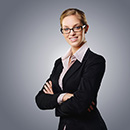
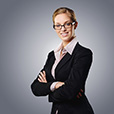
form, footer

diff --git a/css/main.min.css b/css/main.min.css
@@ -1,1 +1,1 @@
-.header{background:url(../img/header-bg.png) no-repeat 50% 50%;background-size:cover;position:relative}.header__overlay{position:absolute;top:0;left:0;right:0;bottom:0;background:url(../img/header-bg-overlay.png) no-repeat 50% 50%;background-size:cover;width:100%;height:100%}.header__inner{position:relative;width:1200px;margin:0 auto}.header__info{display:-webkit-box;display:-ms-flexbox;display:flex;-webkit-box-orient:horizontal;-webkit-box-direction:normal;-ms-flex-direction:row;flex-direction:row;-webkit-box-align:center;-ms-flex-align:center;align-items:center}.header__info .logo_main{margin:2rem 0;-ms-flex-preferred-size:10%;flex-basis:10%}.header__info .nav{display:-webkit-box;display:-ms-flexbox;display:flex;-webkit-box-orient:horizontal;-webkit-box-direction:normal;-ms-flex-direction:row;flex-direction:row;-ms-flex-preferred-size:60%;flex-basis:60%;-webkit-box-pack:space-evenly;-ms-flex-pack:space-evenly;justify-content:space-evenly}.header__info .nav__list{width:100%;margin:0;padding:0;list-style:none;display:-webkit-box;display:-ms-flexbox;display:flex;-webkit-box-orient:horizontal;-webkit-box-direction:normal;-ms-flex-direction:row;flex-direction:row;-webkit-box-pack:space-evenly;-ms-flex-pack:space-evenly;justify-content:space-evenly;font-size:1.5rem;color:var(--color-white)}.header__info .nav__list>:hover{color:var(--color-main);-webkit-transition:all .5s;transition:all .5s;cursor:pointer}.header__info .nav__list>:not(:nth-child(6)){border-right:1px solid var(--color-brown);padding-right:2rem}.header__info .phone{-ms-flex-preferred-size:15%;flex-basis:15%}.header__info .phone__text{color:var(--color-white);font-size:1.4rem;text-align:end}.header__info .phone__number{color:var(--color-white);font-size:1.9rem;text-align:end}.header__info .button{-ms-flex-preferred-size:15%;flex-basis:15%}.header__info .button_main{color:var(--color-white);font-size:1.3rem;padding:1.8rem 2.3rem;background-color:var(--color-main);outline:0;border-radius:30px;text-transform:uppercase}.header__info .button_main-top{padding:1.8rem 2.3rem;border:none;cursor:pointer}.header__titles{color:var(--color-white);display:-webkit-box;display:-ms-flexbox;display:flex;-webkit-box-orient:vertical;-webkit-box-direction:normal;-ms-flex-direction:column;flex-direction:column;-webkit-box-pack:center;-ms-flex-pack:center;justify-content:center;-webkit-box-align:center;-ms-flex-align:center;align-items:center}.header__titles_top{font-size:2.4rem;margin-bottom:2rem}.header__titles_central{font-size:7.2rem;color:var(--color-main);font-weight:700;text-transform:uppercase}.header__titles_bottom{font-size:4.2rem;text-transform:uppercase}.header__decorate{display:-webkit-box;display:-ms-flexbox;display:flex;-webkit-box-align:center;-ms-flex-align:center;align-items:center;-webkit-box-pack:center;-ms-flex-pack:center;justify-content:center;margin:4.2rem 0}.header__decorate .decorate_left{-ms-flex-preferred-size:37%;flex-basis:37%;height:2px;color:var(--color-white);margin:0;padding:0}.header__decorate .decorate_right{-ms-flex-preferred-size:37%;flex-basis:37%;height:2px;color:var(--color-white);margin:0;padding:0}.header__decorate .decorate_circle{-ms-flex-preferred-size:1%;flex-basis:1%;height:12px;background-color:var(--color-white);margin:0;padding:0;border-radius:50%;margin:0 2rem}.header__variants{display:-webkit-box;display:-ms-flexbox;display:flex;-webkit-box-orient:horizontal;-webkit-box-direction:normal;-ms-flex-direction:row;flex-direction:row;-webkit-box-pack:justify;-ms-flex-pack:justify;justify-content:space-between;-ms-flex-preferred-size:25%;flex-basis:25%;-webkit-box-align:baseline;-ms-flex-align:baseline;align-items:baseline}.header__variants .variants__items{display:-webkit-box;display:-ms-flexbox;display:flex;-webkit-box-orient:vertical;-webkit-box-direction:normal;-ms-flex-direction:column;flex-direction:column;-webkit-box-pack:center;-ms-flex-pack:center;justify-content:center;-webkit-box-align:center;-ms-flex-align:center;align-items:center}.header__variants .variants__items .variants__text{font-size:1.6rem;color:var(--color-white);text-align:center;padding:1.5rem 1rem;margin:0}.header__variants .variants__items>*+*{margin:1.5rem 0}.header__button{width:100%;display:-webkit-box;display:-ms-flexbox;display:flex;-webkit-box-orient:horizontal;-webkit-box-direction:normal;-ms-flex-direction:row;flex-direction:row;-webkit-box-pack:center;-ms-flex-pack:center;justify-content:center}.header__button .button_main-bottom{margin:4.2rem 0 6rem 0;color:var(--color-white);font-size:1.3rem;padding:2.3rem 4.8rem;background-color:var(--color-main);outline:0;border-radius:30px;text-transform:uppercase;font-weight:700;border:none;cursor:pointer}.advantages{background:var(--color-bg-grey)}.advantages__inner{position:relative;width:1200px;margin:0 auto}.advantages__inner .advantages__title{width:100%;text-align:center;font-size:2.6rem;padding:3rem 0;text-transform:uppercase;font-weight:700}.advantages__inner .advantages__items{display:-webkit-box;display:-ms-flexbox;display:flex;-webkit-box-orient:horizontal;-webkit-box-direction:normal;-ms-flex-direction:row;flex-direction:row;-webkit-box-pack:justify;-ms-flex-pack:justify;justify-content:space-between}.advantages__inner .advantages__items_left-group,.advantages__inner .advantages__items_right-group{display:-webkit-box;display:-ms-flexbox;display:flex;-webkit-box-orient:vertical;-webkit-box-direction:normal;-ms-flex-direction:column;flex-direction:column;-webkit-box-pack:center;-ms-flex-pack:center;justify-content:center;-webkit-box-align:center;-ms-flex-align:center;align-items:center;width:50%;-webkit-box-pack:start;-ms-flex-pack:start;justify-content:flex-start;margin-top:2rem;margin-bottom:6rem}.advantages__inner .advantages__items_left-group .advantages__items_left,.advantages__inner .advantages__items_left-group .advantages__items_right,.advantages__inner .advantages__items_right-group .advantages__items_left,.advantages__inner .advantages__items_right-group .advantages__items_right{display:-webkit-box;display:-ms-flexbox;display:flex;-webkit-box-orient:horizontal;-webkit-box-direction:normal;-ms-flex-direction:row;flex-direction:row;-webkit-box-pack:justify;-ms-flex-pack:justify;justify-content:space-between;-ms-flex-pack:distribute;justify-content:space-around}.advantages__inner .advantages__items_left-group .advantages__items_left .advantages__item-logo,.advantages__inner .advantages__items_left-group .advantages__items_right .advantages__item-logo,.advantages__inner .advantages__items_right-group .advantages__items_left .advantages__item-logo,.advantages__inner .advantages__items_right-group .advantages__items_right .advantages__item-logo{padding-top:1rem}.advantages__inner .advantages__items_left-group .advantages__items_left .advantages__info,.advantages__inner .advantages__items_left-group .advantages__items_right .advantages__info,.advantages__inner .advantages__items_right-group .advantages__items_left .advantages__info,.advantages__inner .advantages__items_right-group .advantages__items_right .advantages__info{margin-bottom:3rem;margin-left:1.5rem}.advantages__inner .advantages__items_left-group .advantages__items_left .advantages__info .advantages__item-title,.advantages__inner .advantages__items_left-group .advantages__items_right .advantages__info .advantages__item-title,.advantages__inner .advantages__items_right-group .advantages__items_left .advantages__info .advantages__item-title,.advantages__inner .advantages__items_right-group .advantages__items_right .advantages__info .advantages__item-title{color:var(--color-main);font-size:1.6rem;margin-bottom:1rem;font-weight:700}.advantages__inner .advantages__items_left-group .advantages__items_left .advantages__info .advantages__item-text,.advantages__inner .advantages__items_left-group .advantages__items_right .advantages__info .advantages__item-text,.advantages__inner .advantages__items_right-group .advantages__items_left .advantages__info .advantages__item-text,.advantages__inner .advantages__items_right-group .advantages__items_right .advantages__info .advantages__item-text{font-size:1.6rem}.agent{background:url(../img/agent-bg.png) no-repeat 50% 50%;background-size:cover;color:var(--color-white)}.agent__inner{width:1200px;margin:0 auto}.agent__info{display:-webkit-box;display:-ms-flexbox;display:flex;-webkit-box-orient:vertical;-webkit-box-direction:normal;-ms-flex-direction:column;flex-direction:column;-webkit-box-pack:center;-ms-flex-pack:center;justify-content:center;-webkit-box-align:center;-ms-flex-align:center;align-items:center;color:var(--color-white);padding-bottom:8rem}.agent__logo{width:10rem;height:10rem;border:1px solid var(--color-white);border-radius:50%;margin-top:6rem}.agent__logo img{display:inline-block;line-height:50%;margin-left:25%;margin-top:20%}.agent__title{font-size:2.6rem;font-weight:700;margin:1.5rem 0 1.5rem 0}.agent__text{font-size:1.9rem;line-height:2.7rem;width:90%;text-align:center}.client{background-color:var(--color-white)}.client__inner{position:relative;width:1200px;margin:0 auto}.client__title{padding:3rem 1rem 2rem 1rem;font-size:2.6rem;text-transform:uppercase;text-align:center;font-weight:700}.client__subtitle{padding:1rem 1rem 1rem 1rem;font-size:2.6rem;text-align:center}.client__slider{display:-webkit-box;display:-ms-flexbox;display:flex;-webkit-box-orient:horizontal;-webkit-box-direction:normal;-ms-flex-direction:row;flex-direction:row;-webkit-box-pack:justify;-ms-flex-pack:justify;justify-content:space-between}.footer{background:var(--color-bg-title);color:var(--color-white)}.footer__inner{position:relative;width:1200px;margin:0 auto}.question-form{background:url(../../img/form-bg.png);position:relative}.question-form__overlay{position:absolute;top:0;left:0;right:0;bottom:0;background:url(../img/header-bg-overlay.png) no-repeat 50% 50%;background-size:cover;width:100%;height:100%}.question-form__inner{position:relative;width:1200px;margin:0 auto}.manage{background:url(../img/manage-bg.png) no-repeat 50% 50%;background-size:cover;color:var(--color-white)}.manage__inner{width:1200px;margin:0 auto}.manage__info{display:-webkit-box;display:-ms-flexbox;display:flex;-webkit-box-orient:vertical;-webkit-box-direction:normal;-ms-flex-direction:column;flex-direction:column;-webkit-box-pack:center;-ms-flex-pack:center;justify-content:center;-webkit-box-align:center;-ms-flex-align:center;align-items:center;color:var(--color-white);padding-bottom:8rem}.manage__logo{width:10rem;height:10rem;border:1px solid var(--color-white);border-radius:50%;margin-top:6rem}.manage__logo img{display:inline-block;line-height:50%;margin-left:25%;margin-top:20%}.manage__title{font-size:2.6rem;font-weight:700;margin:1.5rem 0 1.5rem 0}.manage__text{font-size:1.9rem;line-height:2.7rem;width:90%;text-align:center}.price{background-color:var(--color-white)}.price__inner{position:relative;width:1200px;margin:0 auto}.price__title{padding:3rem 1rem 2rem 1rem;font-size:2.6rem;text-transform:uppercase;text-align:center;font-weight:700}.price__subtitle{padding:1rem 1rem 1rem 1rem;font-size:2.6rem;text-align:center}.price .choice__inner{display:-webkit-box;display:-ms-flexbox;display:flex;-webkit-box-orient:horizontal;-webkit-box-direction:normal;-ms-flex-direction:row;flex-direction:row;-webkit-box-pack:justify;-ms-flex-pack:justify;justify-content:space-between}.price .choice__items{display:-webkit-box;display:-ms-flexbox;display:flex;-webkit-box-orient:vertical;-webkit-box-direction:normal;-ms-flex-direction:column;flex-direction:column;-webkit-box-pack:center;-ms-flex-pack:center;justify-content:center;-webkit-box-align:center;-ms-flex-align:center;align-items:center;border:1px solid var(--color-brown);-webkit-box-pack:justify;-ms-flex-pack:justify;justify-content:space-between}.price .choice__items>*+*{margin-bottom:1.5rem}.price .choice__items:not(:nth-child(4)){margin-right:2rem}.price .choice__title{font-size:1.6rem;text-transform:uppercase;background-color:var(--color-bg-title);width:99.5%;height:6.2rem;color:var(--color-white);padding:2.2rem 5.6rem;text-align:center}.price .choice__days{font-size:1.6rem}.price .choice__price{font-size:2rem;color:var(--color-main)}.price .choice__text{font-size:1.4rem;text-align:center;font-weight:300}.price .choice__button{font-size:1.3rem;padding:1.8rem 2.3rem;background-color:var(--color-main);outline:0;border-radius:30px;text-transform:uppercase;border:none;cursor:pointer}.price .choice__button_bottom{background-color:var(--color-main);border:none;color:var(--color-white)}.price__form-inner{display:-webkit-box;display:-ms-flexbox;display:flex;-webkit-box-orient:vertical;-webkit-box-direction:normal;-ms-flex-direction:column;flex-direction:column;-webkit-box-pack:center;-ms-flex-pack:center;justify-content:center;-webkit-box-align:center;-ms-flex-align:center;align-items:center}.scheme{background-color:var(--color-bg-grey)}.scheme__inner{position:relative;width:1200px;margin:0 auto;display:-webkit-box;display:-ms-flexbox;display:flex;-webkit-box-orient:vertical;-webkit-box-direction:normal;-ms-flex-direction:column;flex-direction:column;-webkit-box-pack:center;-ms-flex-pack:center;justify-content:center;-webkit-box-align:center;-ms-flex-align:center;align-items:center}.scheme__title{padding:3rem 1rem 2rem 1rem;font-size:2.6rem;text-transform:uppercase;text-align:center;font-weight:700}.scheme__items{display:-webkit-box;display:-ms-flexbox;display:flex;-webkit-box-orient:horizontal;-webkit-box-direction:normal;-ms-flex-direction:row;flex-direction:row;-webkit-box-pack:justify;-ms-flex-pack:justify;justify-content:space-between;padding-bottom:3rem}.scheme__items_bottom{width:70%}.scheme__items_bottom .scheme__item{-ms-flex-preferred-size:33.33333%;flex-basis:33.33333%}.scheme__items_top .scheme__item{-ms-flex-preferred-size:25%;flex-basis:25%}.scheme__item{display:-webkit-box;display:-ms-flexbox;display:flex;-webkit-box-orient:vertical;-webkit-box-direction:normal;-ms-flex-direction:column;flex-direction:column;-webkit-box-pack:center;-ms-flex-pack:center;justify-content:center;-webkit-box-align:center;-ms-flex-align:center;align-items:center;font-size:1.4rem;padding:0 2rem;-webkit-box-pack:stretch;-ms-flex-pack:stretch;justify-content:stretch}.scheme__item-title{color:var(--color-main)}.scheme__item-text{font-weight:300;text-align:center}.scheme__item>*+*{margin-bottom:1.5rem}.work{background-color:var(--color-white)}.work__inner{position:relative;width:1200px;margin:0 auto}.work__title{padding:3rem 1rem 2rem 1rem;font-size:2.6rem;text-transform:uppercase;text-align:center;font-weight:700}.work__subtitle{padding:1rem 1rem 1rem 1rem;font-size:2.6rem;text-align:center}.work__examples{display:-webkit-box;display:-ms-flexbox;display:flex;-webkit-box-orient:horizontal;-webkit-box-direction:normal;-ms-flex-direction:row;flex-direction:row;-webkit-box-pack:justify;-ms-flex-pack:justify;justify-content:space-between}.work__examples .examples__inner{display:-webkit-box;display:-ms-flexbox;display:flex;-webkit-box-orient:vertical;-webkit-box-direction:normal;-ms-flex-direction:column;flex-direction:column;-webkit-box-pack:center;-ms-flex-pack:center;justify-content:center;-webkit-box-align:center;-ms-flex-align:center;align-items:center;padding:3rem 0 5rem 0;width:36rem}.work__examples .examples__inner>:nth-child(2){color:var(--color-main);font-size:1.8rem;margin-top:2rem;font-weight:700}.work__examples .examples__inner-item{margin:.5rem 0;font-size:1.6rem;text-align:justify;font-weight:300;line-height:2.2rem}:root{--color-brown:#333;--color-white:#fff;--color-main:rgb(236, 100, 75);--color-bg-title:rgb(37,51,60);--color-bg-grey:rgb(243, 243, 243)}html{-webkit-box-sizing:border-box;box-sizing:border-box;font-size:62.5%}*,::after,::before{-webkit-box-sizing:inherit;box-sizing:inherit}body{margin:0;page-break-after:0;font-family:Roboto,sans-serif}
+.header{background:url(../img/header-bg.png) no-repeat 50% 50%;background-size:cover;position:relative}.header__overlay{position:absolute;top:0;left:0;right:0;bottom:0;background:url(../img/header-bg-overlay.png) no-repeat 50% 50%;background-size:cover;width:100%;height:100%}.header__inner{position:relative;width:1200px;margin:0 auto}.header__info{display:-webkit-box;display:-ms-flexbox;display:flex;-webkit-box-orient:horizontal;-webkit-box-direction:normal;-ms-flex-direction:row;flex-direction:row;-webkit-box-align:center;-ms-flex-align:center;align-items:center}.header__info .logo_main{margin:2rem 0;-ms-flex-preferred-size:10%;flex-basis:10%}.header__info .nav{display:-webkit-box;display:-ms-flexbox;display:flex;-webkit-box-orient:horizontal;-webkit-box-direction:normal;-ms-flex-direction:row;flex-direction:row;-ms-flex-preferred-size:60%;flex-basis:60%;-webkit-box-pack:space-evenly;-ms-flex-pack:space-evenly;justify-content:space-evenly}.header__info .nav__list{width:100%;margin:0;padding:0;list-style:none;display:-webkit-box;display:-ms-flexbox;display:flex;-webkit-box-orient:horizontal;-webkit-box-direction:normal;-ms-flex-direction:row;flex-direction:row;-webkit-box-pack:space-evenly;-ms-flex-pack:space-evenly;justify-content:space-evenly;font-size:1.5rem;color:var(--color-white)}.header__info .nav__list>:hover{color:var(--color-main);-webkit-transition:all .5s;transition:all .5s;cursor:pointer}.header__info .nav__list>:not(:nth-child(6)){border-right:1px solid var(--color-brown);padding-right:2rem}.header__info .phone{-ms-flex-preferred-size:15%;flex-basis:15%}.header__info .phone__text{color:var(--color-white);font-size:1.4rem;text-align:end}.header__info .phone__number{color:var(--color-white);font-size:1.9rem;text-align:end}.header__info .button{-ms-flex-preferred-size:15%;flex-basis:15%}.header__info .button_main{color:var(--color-white);font-size:1.3rem;padding:1.8rem 2.3rem;background-color:var(--color-main);outline:0;border-radius:30px;text-transform:uppercase}.header__info .button_main-top{padding:1.8rem 2.3rem;border:none;cursor:pointer}.header__titles{color:var(--color-white);display:-webkit-box;display:-ms-flexbox;display:flex;-webkit-box-orient:vertical;-webkit-box-direction:normal;-ms-flex-direction:column;flex-direction:column;-webkit-box-pack:center;-ms-flex-pack:center;justify-content:center;-webkit-box-align:center;-ms-flex-align:center;align-items:center}.header__titles_top{font-size:2.4rem;margin-bottom:2rem}.header__titles_central{font-size:7.2rem;color:var(--color-main);font-weight:700;text-transform:uppercase}.header__titles_bottom{font-size:4.2rem;text-transform:uppercase}.header__decorate{display:-webkit-box;display:-ms-flexbox;display:flex;-webkit-box-align:center;-ms-flex-align:center;align-items:center;-webkit-box-pack:center;-ms-flex-pack:center;justify-content:center;margin:4.2rem 0}.header__decorate .decorate_left{-ms-flex-preferred-size:37%;flex-basis:37%;height:2px;color:var(--color-white);margin:0;padding:0}.header__decorate .decorate_right{-ms-flex-preferred-size:37%;flex-basis:37%;height:2px;color:var(--color-white);margin:0;padding:0}.header__decorate .decorate_circle{-ms-flex-preferred-size:1%;flex-basis:1%;height:12px;background-color:var(--color-white);margin:0;padding:0;border-radius:50%;margin:0 2rem}.header__variants{display:-webkit-box;display:-ms-flexbox;display:flex;-webkit-box-orient:horizontal;-webkit-box-direction:normal;-ms-flex-direction:row;flex-direction:row;-webkit-box-pack:justify;-ms-flex-pack:justify;justify-content:space-between;-ms-flex-preferred-size:25%;flex-basis:25%;-webkit-box-align:baseline;-ms-flex-align:baseline;align-items:baseline}.header__variants .variants__items{display:-webkit-box;display:-ms-flexbox;display:flex;-webkit-box-orient:vertical;-webkit-box-direction:normal;-ms-flex-direction:column;flex-direction:column;-webkit-box-pack:center;-ms-flex-pack:center;justify-content:center;-webkit-box-align:center;-ms-flex-align:center;align-items:center}.header__variants .variants__items .variants__text{font-size:1.6rem;color:var(--color-white);text-align:center;padding:1.5rem 1rem;margin:0}.header__variants .variants__items>*+*{margin:1.5rem 0}.header__button{width:100%;display:-webkit-box;display:-ms-flexbox;display:flex;-webkit-box-orient:horizontal;-webkit-box-direction:normal;-ms-flex-direction:row;flex-direction:row;-webkit-box-pack:center;-ms-flex-pack:center;justify-content:center}.header__button .button_main-bottom{margin:4.2rem 0 6rem 0;color:var(--color-white);font-size:1.3rem;padding:2.3rem 4.8rem;background-color:var(--color-main);outline:0;border-radius:30px;text-transform:uppercase;font-weight:700;border:none;cursor:pointer}.advantages{background:var(--color-bg-grey)}.advantages__inner{position:relative;width:1200px;margin:0 auto}.advantages__inner .advantages__title{width:100%;text-align:center;font-size:2.6rem;padding:3rem 0;text-transform:uppercase;font-weight:700}.advantages__inner .advantages__items{display:-webkit-box;display:-ms-flexbox;display:flex;-webkit-box-orient:horizontal;-webkit-box-direction:normal;-ms-flex-direction:row;flex-direction:row;-webkit-box-pack:justify;-ms-flex-pack:justify;justify-content:space-between}.advantages__inner .advantages__items_left-group,.advantages__inner .advantages__items_right-group{display:-webkit-box;display:-ms-flexbox;display:flex;-webkit-box-orient:vertical;-webkit-box-direction:normal;-ms-flex-direction:column;flex-direction:column;-webkit-box-pack:center;-ms-flex-pack:center;justify-content:center;-webkit-box-align:center;-ms-flex-align:center;align-items:center;width:50%;-webkit-box-pack:start;-ms-flex-pack:start;justify-content:flex-start;margin-top:2rem;margin-bottom:6rem}.advantages__inner .advantages__items_left-group .advantages__items_left,.advantages__inner .advantages__items_left-group .advantages__items_right,.advantages__inner .advantages__items_right-group .advantages__items_left,.advantages__inner .advantages__items_right-group .advantages__items_right{display:-webkit-box;display:-ms-flexbox;display:flex;-webkit-box-orient:horizontal;-webkit-box-direction:normal;-ms-flex-direction:row;flex-direction:row;-webkit-box-pack:justify;-ms-flex-pack:justify;justify-content:space-between;-ms-flex-pack:distribute;justify-content:space-around}.advantages__inner .advantages__items_left-group .advantages__items_left .advantages__item-logo,.advantages__inner .advantages__items_left-group .advantages__items_right .advantages__item-logo,.advantages__inner .advantages__items_right-group .advantages__items_left .advantages__item-logo,.advantages__inner .advantages__items_right-group .advantages__items_right .advantages__item-logo{padding-top:1rem}.advantages__inner .advantages__items_left-group .advantages__items_left .advantages__info,.advantages__inner .advantages__items_left-group .advantages__items_right .advantages__info,.advantages__inner .advantages__items_right-group .advantages__items_left .advantages__info,.advantages__inner .advantages__items_right-group .advantages__items_right .advantages__info{margin-bottom:3rem;margin-left:1.5rem}.advantages__inner .advantages__items_left-group .advantages__items_left .advantages__info .advantages__item-title,.advantages__inner .advantages__items_left-group .advantages__items_right .advantages__info .advantages__item-title,.advantages__inner .advantages__items_right-group .advantages__items_left .advantages__info .advantages__item-title,.advantages__inner .advantages__items_right-group .advantages__items_right .advantages__info .advantages__item-title{color:var(--color-main);font-size:1.6rem;margin-bottom:1rem;font-weight:700}.advantages__inner .advantages__items_left-group .advantages__items_left .advantages__info .advantages__item-text,.advantages__inner .advantages__items_left-group .advantages__items_right .advantages__info .advantages__item-text,.advantages__inner .advantages__items_right-group .advantages__items_left .advantages__info .advantages__item-text,.advantages__inner .advantages__items_right-group .advantages__items_right .advantages__info .advantages__item-text{font-size:1.6rem}.agent{background:url(../img/agent-bg.png) no-repeat 50% 50%;background-size:cover;color:var(--color-white)}.agent__inner{width:1200px;margin:0 auto}.agent__info{display:-webkit-box;display:-ms-flexbox;display:flex;-webkit-box-orient:vertical;-webkit-box-direction:normal;-ms-flex-direction:column;flex-direction:column;-webkit-box-pack:center;-ms-flex-pack:center;justify-content:center;-webkit-box-align:center;-ms-flex-align:center;align-items:center;color:var(--color-white);padding-bottom:8rem}.agent__logo{width:10rem;height:10rem;border:1px solid var(--color-white);border-radius:50%;margin-top:6rem}.agent__logo img{display:inline-block;line-height:50%;margin-left:25%;margin-top:20%}.agent__title{font-size:2.6rem;font-weight:700;margin:1.5rem 0 1.5rem 0}.agent__text{font-size:1.9rem;line-height:2.7rem;width:90%;text-align:center}.client{background-color:var(--color-white)}.client__inner{position:relative;width:1200px;margin:0 auto}.client__title{padding:3rem 1rem 2rem 1rem;font-size:2.6rem;text-transform:uppercase;text-align:center;font-weight:700}.client__subtitle{padding:1rem 1rem 1rem 1rem;font-size:2.6rem;text-align:center}.client__slider{display:-webkit-box;display:-ms-flexbox;display:flex;-webkit-box-orient:horizontal;-webkit-box-direction:normal;-ms-flex-direction:row;flex-direction:row;-webkit-box-pack:justify;-ms-flex-pack:justify;justify-content:space-between}.client__slider .slider__item .slider__img img{border-radius:50%}.footer{background:var(--color-bg-title);color:var(--color-white)}.footer__inner{position:relative;width:1200px;margin:0 auto;display:-webkit-box;display:-ms-flexbox;display:flex;-webkit-box-orient:vertical;-webkit-box-direction:normal;-ms-flex-direction:column;flex-direction:column;-webkit-box-pack:center;-ms-flex-pack:center;justify-content:center;-webkit-box-align:center;-ms-flex-align:center;align-items:center}.footer__inner-top{display:-webkit-box;display:-ms-flexbox;display:flex;-webkit-box-orient:horizontal;-webkit-box-direction:normal;-ms-flex-direction:row;flex-direction:row;-webkit-box-pack:justify;-ms-flex-pack:justify;justify-content:space-between;width:100%;-webkit-box-align:center;-ms-flex-align:center;align-items:center;padding-top:3rem;padding-bottom:3rem;border-bottom:1px solid grey}.footer__inner-top .footer__logo{-ms-flex-preferred-size:10%;flex-basis:10%}.footer__inner-top .footer__title{-ms-flex-preferred-size:60%;flex-basis:60%}.footer__inner-top .footer__phone-text{-ms-flex-preferred-size:15%;flex-basis:15%}.footer__inner-top .footer__phone-number{-ms-flex-preferred-size:15%;flex-basis:15%}.footer__inner-bottom{display:-webkit-box;display:-ms-flexbox;display:flex;-webkit-box-orient:horizontal;-webkit-box-direction:normal;-ms-flex-direction:row;flex-direction:row;-webkit-box-pack:justify;-ms-flex-pack:justify;justify-content:space-between;width:100%;-webkit-box-align:center;-ms-flex-align:center;align-items:center;padding-top:3rem;padding-bottom:3rem}.footer__inner-bottom .footer-bottom__copyright{-ms-flex-preferred-size:10%;flex-basis:10%}.footer__inner-bottom .footer-bottom__text{-ms-flex-preferred-size:80%;flex-basis:80%}.footer__inner-bottom .footer-bottom__logo{-ms-flex-preferred-size:10%;flex-basis:10%}.footer__inner-bottom .footer-bottom__logo>*{display:inline-block}.question-form{background:url(../../img/form-bg.png);position:relative}.question-form__overlay{position:absolute;top:0;left:0;right:0;bottom:0;background:url(../img/header-bg-overlay.png) no-repeat 50% 50%;background-size:cover;width:100%;height:100%;opacity:.5}.question-form__inner{position:relative;width:1000px;margin:0 auto;padding-top:3rem;padding-bottom:6rem}.question-form__inner-overlay{background:url(../../img/form-overlay.png) no-repeat 50% 50%;background-size:cover;display:-webkit-box;display:-ms-flexbox;display:flex;-webkit-box-orient:vertical;-webkit-box-direction:normal;-ms-flex-direction:column;flex-direction:column;-webkit-box-pack:center;-ms-flex-pack:center;justify-content:center;-webkit-box-align:center;-ms-flex-align:center;align-items:center}.question-form__header{color:var(--color-white);background-color:var(--color-bg-title);width:100%;margin:0;padding:0}.question-form__title{font-size:1.9rem;text-transform:uppercase;text-align:center;font-weight:700;padding-top:1.5rem}.question-form__subtitle{font-size:1.4rem;text-transform:uppercase;text-align:center;font-weight:300;padding-bottom:1.5rem}.question-form__content{display:-webkit-box;display:-ms-flexbox;display:flex;-webkit-box-orient:horizontal;-webkit-box-direction:normal;-ms-flex-direction:row;flex-direction:row;-webkit-box-pack:justify;-ms-flex-pack:justify;justify-content:space-between;width:100%;margin:0;padding:0;-ms-flex-wrap:wrap;flex-wrap:wrap}.question-form__content input{-ms-flex-preferred-size:30%;flex-basis:30%;margin-top:1.5rem;padding:1.8rem 0 1.8rem 2.2rem;border-radius:3rem;border:1px solid var(--color-form);background-color:var(--color-white);font-family:Roboto,sans-serif;color:var(--color-form);font-weight:300}.question-form__content input:nth-child(1){margin-left:3rem}.question-form__content input:nth-child(3){margin-right:3rem}.question-form__content textarea{-ms-flex-preferred-size:100%;flex-basis:100%;margin:1.5rem 3rem 1.5rem 3rem;padding-left:2.2rem;padding-top:1.8rem;background-color:var(--color-white);font-family:Roboto,sans-serif;border-radius:10px;border:.5px solid var(--color-form);color:var(--color-form);font-weight:300;max-height:8rem;max-width:100%}.question-form__button{background-color:var(--color-main);border:1px solid var(--color-main);margin:1rem 0 3rem 0;border-radius:30px}.question-form__button button{padding:1.3rem 2.3rem;cursor:pointer;background-color:var(--color-main);color:var(--color-white);font-size:1.3rem;border-radius:30px;text-transform:uppercase;border:none;outline:0}.manage{background:url(../img/manage-bg.png) no-repeat 50% 50%;background-size:cover;color:var(--color-white)}.manage__inner{width:1200px;margin:0 auto}.manage__info{display:-webkit-box;display:-ms-flexbox;display:flex;-webkit-box-orient:vertical;-webkit-box-direction:normal;-ms-flex-direction:column;flex-direction:column;-webkit-box-pack:center;-ms-flex-pack:center;justify-content:center;-webkit-box-align:center;-ms-flex-align:center;align-items:center;color:var(--color-white);padding-bottom:8rem}.manage__logo{width:10rem;height:10rem;border:1px solid var(--color-white);border-radius:50%;margin-top:6rem}.manage__logo img{display:inline-block;line-height:50%;margin-left:25%;margin-top:20%}.manage__title{font-size:2.6rem;font-weight:700;margin:1.5rem 0 1.5rem 0}.manage__text{font-size:1.9rem;line-height:2.7rem;width:90%;text-align:center}.price{background-color:var(--color-white)}.price__inner{position:relative;width:1200px;margin:0 auto}.price__title{padding:3rem 1rem 2rem 1rem;font-size:2.6rem;text-transform:uppercase;text-align:center;font-weight:700}.price__subtitle{padding:1rem 1rem 1rem 1rem;font-size:2.6rem;text-align:center}.price .choice__inner{display:-webkit-box;display:-ms-flexbox;display:flex;-webkit-box-orient:horizontal;-webkit-box-direction:normal;-ms-flex-direction:row;flex-direction:row;-webkit-box-pack:justify;-ms-flex-pack:justify;justify-content:space-between}.price .choice__items{display:-webkit-box;display:-ms-flexbox;display:flex;-webkit-box-orient:vertical;-webkit-box-direction:normal;-ms-flex-direction:column;flex-direction:column;-webkit-box-pack:center;-ms-flex-pack:center;justify-content:center;-webkit-box-align:center;-ms-flex-align:center;align-items:center;border:1px solid var(--color-brown);-webkit-box-pack:justify;-ms-flex-pack:justify;justify-content:space-between}.price .choice__items>*+*{margin-bottom:1.5rem}.price .choice__items:not(:nth-child(4)){margin-right:2rem}.price .choice__title{font-size:1.6rem;text-transform:uppercase;background-color:var(--color-bg-title);width:99.5%;height:6.2rem;color:var(--color-white);padding:2.2rem 5.6rem;text-align:center}.price .choice__days{font-size:1.6rem}.price .choice__price{font-size:2rem;color:var(--color-main)}.price .choice__text{font-size:1.4rem;text-align:center;font-weight:300}.price .choice__button{font-size:1.3rem;padding:1.8rem 2.3rem;background-color:var(--color-main);outline:0;border-radius:30px;text-transform:uppercase;border:none;cursor:pointer}.price .choice__button_bottom{background-color:var(--color-main);border:none;color:var(--color-white)}.price__form-inner{display:-webkit-box;display:-ms-flexbox;display:flex;-webkit-box-orient:vertical;-webkit-box-direction:normal;-ms-flex-direction:column;flex-direction:column;-webkit-box-pack:center;-ms-flex-pack:center;justify-content:center;-webkit-box-align:center;-ms-flex-align:center;align-items:center}.scheme{background-color:var(--color-bg-grey)}.scheme__inner{position:relative;width:1200px;margin:0 auto;display:-webkit-box;display:-ms-flexbox;display:flex;-webkit-box-orient:vertical;-webkit-box-direction:normal;-ms-flex-direction:column;flex-direction:column;-webkit-box-pack:center;-ms-flex-pack:center;justify-content:center;-webkit-box-align:center;-ms-flex-align:center;align-items:center}.scheme__title{padding:3rem 1rem 2rem 1rem;font-size:2.6rem;text-transform:uppercase;text-align:center;font-weight:700}.scheme__items{display:-webkit-box;display:-ms-flexbox;display:flex;-webkit-box-orient:horizontal;-webkit-box-direction:normal;-ms-flex-direction:row;flex-direction:row;-webkit-box-pack:justify;-ms-flex-pack:justify;justify-content:space-between;padding-bottom:3rem}.scheme__items_bottom{width:70%}.scheme__items_bottom .scheme__item{-ms-flex-preferred-size:33.33333%;flex-basis:33.33333%}.scheme__items_top .scheme__item{-ms-flex-preferred-size:25%;flex-basis:25%}.scheme__item{display:-webkit-box;display:-ms-flexbox;display:flex;-webkit-box-orient:vertical;-webkit-box-direction:normal;-ms-flex-direction:column;flex-direction:column;-webkit-box-pack:center;-ms-flex-pack:center;justify-content:center;-webkit-box-align:center;-ms-flex-align:center;align-items:center;font-size:1.4rem;padding:0 2rem;-webkit-box-pack:stretch;-ms-flex-pack:stretch;justify-content:stretch}.scheme__item-title{color:var(--color-main)}.scheme__item-text{font-weight:300;text-align:center}.scheme__item>*+*{margin-bottom:1.5rem}.work{background-color:var(--color-white)}.work__inner{position:relative;width:1200px;margin:0 auto}.work__title{padding:3rem 1rem 2rem 1rem;font-size:2.6rem;text-transform:uppercase;text-align:center;font-weight:700}.work__subtitle{padding:1rem 1rem 1rem 1rem;font-size:2.6rem;text-align:center}.work__examples{display:-webkit-box;display:-ms-flexbox;display:flex;-webkit-box-orient:horizontal;-webkit-box-direction:normal;-ms-flex-direction:row;flex-direction:row;-webkit-box-pack:justify;-ms-flex-pack:justify;justify-content:space-between}.work__examples .examples__inner{display:-webkit-box;display:-ms-flexbox;display:flex;-webkit-box-orient:vertical;-webkit-box-direction:normal;-ms-flex-direction:column;flex-direction:column;-webkit-box-pack:center;-ms-flex-pack:center;justify-content:center;-webkit-box-align:center;-ms-flex-align:center;align-items:center;padding:3rem 0 5rem 0;width:36rem}.work__examples .examples__inner>:nth-child(2){color:var(--color-main);font-size:1.8rem;margin-top:2rem;font-weight:700}.work__examples .examples__inner-item{margin:.5rem 0;font-size:1.6rem;text-align:justify;font-weight:300;line-height:2.2rem}:root{--color-brown:#333;--color-white:#fff;--color-main:rgb(236, 100, 75);--color-bg-title:rgb(37,51,60);--color-bg-grey:rgb(243, 243, 243);--color-form:#b1afa9}html{-webkit-box-sizing:border-box;box-sizing:border-box;font-size:62.5%}*,::after,::before{-webkit-box-sizing:inherit;box-sizing:inherit}body{margin:0;page-break-after:0;font-family:Roboto,sans-serif}

diff --git a/css/main.css b/css/main.css
@@ -263,6 +263,8 @@
     display: flex;
     flex-direction: row;
     justify-content: space-between; }
+    .client__slider .slider__item .slider__img img {
+      border-radius: 50%; }
 
 .footer {
   background: var(--color-bg-title);
@@ -270,7 +272,44 @@
   .footer__inner {
     position: relative;
     width: 1200px;
-    margin: 0 auto; }
+    margin: 0 auto;
+    display: flex;
+    flex-direction: column;
+    justify-content: center;
+    align-items: center; }
+    .footer__inner-top {
+      display: flex;
+      flex-direction: row;
+      justify-content: space-between;
+      width: 100%;
+      align-items: center;
+      padding-top: 3rem;
+      padding-bottom: 3rem;
+      border-bottom: 1px solid grey; }
+      .footer__inner-top .footer__logo {
+        flex-basis: 10%; }
+      .footer__inner-top .footer__title {
+        flex-basis: 60%; }
+      .footer__inner-top .footer__phone-text {
+        flex-basis: 15%; }
+      .footer__inner-top .footer__phone-number {
+        flex-basis: 15%; }
+    .footer__inner-bottom {
+      display: flex;
+      flex-direction: row;
+      justify-content: space-between;
+      width: 100%;
+      align-items: center;
+      padding-top: 3rem;
+      padding-bottom: 3rem; }
+      .footer__inner-bottom .footer-bottom__copyright {
+        flex-basis: 10%; }
+      .footer__inner-bottom .footer-bottom__text {
+        flex-basis: 80%; }
+      .footer__inner-bottom .footer-bottom__logo {
+        flex-basis: 10%; }
+        .footer__inner-bottom .footer-bottom__logo > * {
+          display: inline-block; }
 
 .question-form {
   background: url("../../img/form-bg.png");
@@ -284,11 +323,89 @@
     background: url("../img/header-bg-overlay.png") no-repeat 50% 50%;
     background-size: cover;
     width: 100%;
-    height: 100%; }
+    height: 100%;
+    opacity: 0.5; }
   .question-form__inner {
     position: relative;
-    width: 1200px;
-    margin: 0 auto; }
+    width: 1000px;
+    margin: 0 auto;
+    padding-top: 3rem;
+    padding-bottom: 6rem; }
+  .question-form__inner-overlay {
+    background: url("../../img/form-overlay.png") no-repeat 50% 50%;
+    background-size: cover;
+    display: flex;
+    flex-direction: column;
+    justify-content: center;
+    align-items: center; }
+  .question-form__header {
+    color: var(--color-white);
+    background-color: var(--color-bg-title);
+    width: 100%;
+    margin: 0;
+    padding: 0; }
+  .question-form__title {
+    font-size: 1.9rem;
+    text-transform: uppercase;
+    text-align: center;
+    font-weight: bold;
+    padding-top: 1.5rem; }
+  .question-form__subtitle {
+    font-size: 1.4rem;
+    text-transform: uppercase;
+    text-align: center;
+    font-weight: 300;
+    padding-bottom: 1.5rem; }
+  .question-form__content {
+    display: flex;
+    flex-direction: row;
+    justify-content: space-between;
+    width: 100%;
+    margin: 0;
+    padding: 0;
+    flex-wrap: wrap; }
+    .question-form__content input {
+      flex-basis: 30%;
+      margin-top: 1.5rem;
+      padding: 1.8rem 0 1.8rem 2.2rem;
+      border-radius: 3rem;
+      border: 1px solid var(--color-form);
+      background-color: var(--color-white);
+      font-family: 'Roboto', sans-serif;
+      color: var(--color-form);
+      font-weight: 300; }
+    .question-form__content input:nth-child(1) {
+      margin-left: 3rem; }
+    .question-form__content input:nth-child(3) {
+      margin-right: 3rem; }
+    .question-form__content textarea {
+      flex-basis: 100%;
+      margin: 1.5rem 3rem 1.5rem 3rem;
+      padding-left: 2.2rem;
+      padding-top: 1.8rem;
+      background-color: var(--color-white);
+      font-family: 'Roboto', sans-serif;
+      border-radius: 10px;
+      border: 0.5px solid var(--color-form);
+      color: var(--color-form);
+      font-weight: 300;
+      max-height: 8rem;
+      max-width: 100%; }
+  .question-form__button {
+    background-color: var(--color-main);
+    border: 1px solid var(--color-main);
+    margin: 1rem 0 3rem 0;
+    border-radius: 30px; }
+    .question-form__button button {
+      padding: 1.3rem 2.3rem;
+      cursor: pointer;
+      background-color: var(--color-main);
+      color: var(--color-white);
+      font-size: 1.3rem;
+      border-radius: 30px;
+      text-transform: uppercase;
+      border: none;
+      outline: none; }
 
 .manage {
   background: url("../img/manage-bg.png") no-repeat 50% 50%;
@@ -480,7 +597,8 @@
   --color-white: #fff;
   --color-main: rgb(236, 100, 75);
   --color-bg-title: rgb(37,51,60);
-  --color-bg-grey: rgb(243, 243, 243); }
+  --color-bg-grey: rgb(243, 243, 243);
+  --color-form: #b1afa9; }
 
 html {
   box-sizing: border-box;

diff --git a/index.html b/index.html
@@ -343,7 +343,7 @@
                 <div class="slider__text">Хочу рассказать о компании Global Opt. Самое главное что меня радует, это быстрый поиск и анализ определенного товара. Доставляла через компанию уже много раз, от расходных материалов для отеля, до больших партий детской одежды. Буду продолжать пользоваться услугами данной компании</div>
             </div>
             <div class="slider__item">
-                <div class="slider__img"><img src="img/client33.jpg" alt="img"/></div>
+                <div class="slider__img"><img src="img/33.jpg" alt="img"/></div>
                 <div class="slider__name">Дмитрий Алексеев</div>
                 <div class="slider__text">Хочу рассказать о компании Global Opt. Самое главное что меня радует, это быстрый поиск и анализ определенного товара. Доставляла через компанию уже много раз, от расходных материалов для отеля, до больших партий детской одежды. Буду продолжать пользоваться услугами данной компании</div>
             </div>
@@ -363,17 +363,21 @@
 <section class="question-form">
     <div class="question-form__overlay"></div>
     <div class="question-form__inner">
-        <div class="question-form__title">Остались вопросы?</div>
-        <div class="question-form__subtitle">Напишите нам!</div>
-        <div class="question-form__inputs">
-            <form action="">
-                <input type="text">
-                <input type="text">
-                <input type="text">
-                <textarea name="" id="" cols="30" rows="10"></textarea>
-            </form>
+        <div class="question-form__inner-overlay">
+            <div class="question-form__header">
+                <div class="question-form__title">Остались вопросы?</div>
+                <div class="question-form__subtitle">Напишите нам!</div>
+            </div>
+            <div class="question-form__inputs">
+                <form class="question-form__content">
+                    <input type="text">
+                    <input type="text">
+                    <input type="text">
+                    <textarea name="" id="" cols="30" rows="10"></textarea>
+                </form>
+            </div>
+            <div class="question-form__button"><button>Отправить заявку</button></div>
         </div>
-        <div class="question-form__button"><button>Отправить заявку</button></div>
     </div>
 </section>
 

diff --git a/sass/sections/_form.scss b/sass/sections/_form.scss
@@ -11,11 +11,98 @@
         background-size: cover;
         width: 100%;
         height: 100%;
+        opacity: 0.5;
+        
     }
     &__inner {
         position: relative;
-        width: 1200px;
+        width: 1000px;
         margin: 0 auto;
+        padding-top: 3rem;
+        padding-bottom: 6rem;
+      
+    }
+    &__inner-overlay {
+        background: url('../../img/form-overlay.png') no-repeat 50% 50%;
+        background-size: cover;
+        @include flexColumns;
+        
+    }
+    &__header {
+        color: var(--color-white);
+        background-color: var(--color-bg-title);
+        width: 100%;
+        margin: 0;
+        padding: 0;
+    }
+    &__title {
+        font-size: 1.9rem;
+        text-transform: uppercase;
+        text-align: center;
+        font-weight: bold;
+        padding-top: 1.5rem;
+    }
+    &__subtitle {
+        font-size: 1.4rem;
+        text-transform: uppercase;
+        text-align: center;
+        font-weight: 300;
+        padding-bottom: 1.5rem;
+    }
+    &__content {
+        @include flexRow;
+        width: 100%;
+        margin: 0;
+        padding: 0;
+        flex-wrap: wrap;
+        input {
+            flex-basis: 30%;
+            margin-top: 1.5rem;
+            padding: 1.8rem 0 1.8rem 2.2rem;
+            border-radius: 3rem;
+            border: 1px solid var(--color-form);
+            background-color: var(--color-white);
+            font-family: 'Roboto', sans-serif;
+            color: var(--color-form);
+            font-weight: 300;
+        }
+        input:nth-child(1) {
+            margin-left: 3rem;
+        }
+        input:nth-child(3) {
+            margin-right: 3rem;
+        }
+        textarea {
+            flex-basis: 100%;
+            margin: 1.5rem 3rem 1.5rem 3rem;
+            padding-left: 2.2rem;
+            padding-top: 1.8rem;
+            background-color: var(--color-white);
+            font-family: 'Roboto', sans-serif;
+            border-radius: 10px;
+            border: .5px solid var(--color-form);
+            color: var(--color-form);
+            font-weight: 300;
+            max-height: 8rem;
+            max-width: 100%;
+        }
+    }
+    &__button {
+        background-color: var(--color-main);
+        border: 1px solid var(--color-main);
+        margin: 1rem 0 3rem 0;
+        border-radius: 30px;
+        button {
+            padding: 1.3rem 2.3rem;
+            cursor: pointer;
+            background-color: var(--color-main);
+            color: var(--color-white);
+            font-size: 1.3rem;
+            border-radius: 30px;
+            text-transform: uppercase;
+            border: none;
+            outline: none;
+        }
     }
     
 }

diff --git a/sass/sections/_footer.scss b/sass/sections/_footer.scss
@@ -5,5 +5,46 @@
         position: relative;
         width: 1200px;
         margin: 0 auto;
+        @include flexColumns;
+        &-top {
+            @include flexRow;
+            width: 100%;
+            align-items: center;
+            padding-top: 3rem;
+            padding-bottom: 3rem;
+            border-bottom: 1px solid grey;
+            .footer__logo{
+                flex-basis: 10%;
+            
+            }
+            .footer__title{
+                flex-basis: 60%;
+            }
+            .footer__phone-text{
+                flex-basis: 15%;
+            }
+            .footer__phone-number{
+                flex-basis: 15%;
+            }
+        }
+        &-bottom {
+            @include flexRow;
+            width: 100%;
+            align-items: center;
+            padding-top: 3rem;
+            padding-bottom: 3rem;
+            .footer-bottom__copyright {
+                flex-basis: 10%;
+            }
+            .footer-bottom__text {
+                flex-basis: 80%;
+            }
+            .footer-bottom__logo {
+                flex-basis: 10%;
+                & > * {
+                    display: inline-block;
+                }
+            }
+        }
     }
 }

diff --git a/sass/sections/_client.scss b/sass/sections/_client.scss
@@ -19,5 +19,13 @@
     }
     &__slider {
         @include flexRow;
+        .slider__item {
+            .slider__img {
+                img {
+                    border-radius: 50%;
+                }
+                
+            }
+        }
     }
 }

diff --git a/sass/main.scss b/sass/main.scss
@@ -31,6 +31,7 @@
     --color-main: rgb(236, 100, 75);
     --color-bg-title: rgb(37,51,60);
     --color-bg-grey: rgb(243, 243, 243);
+    --color-form: #b1afa9;
 }
 
 
